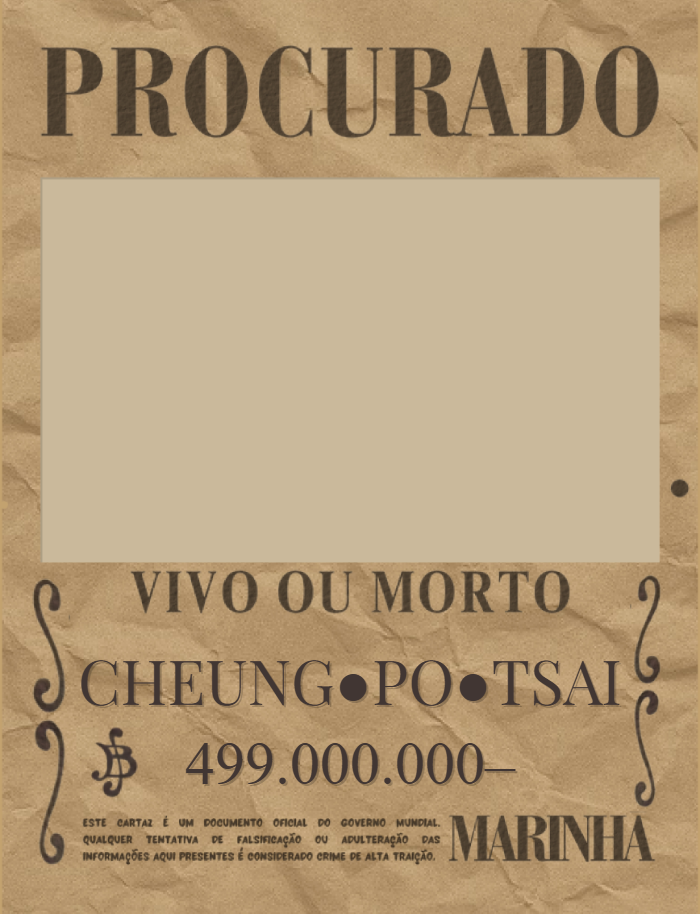
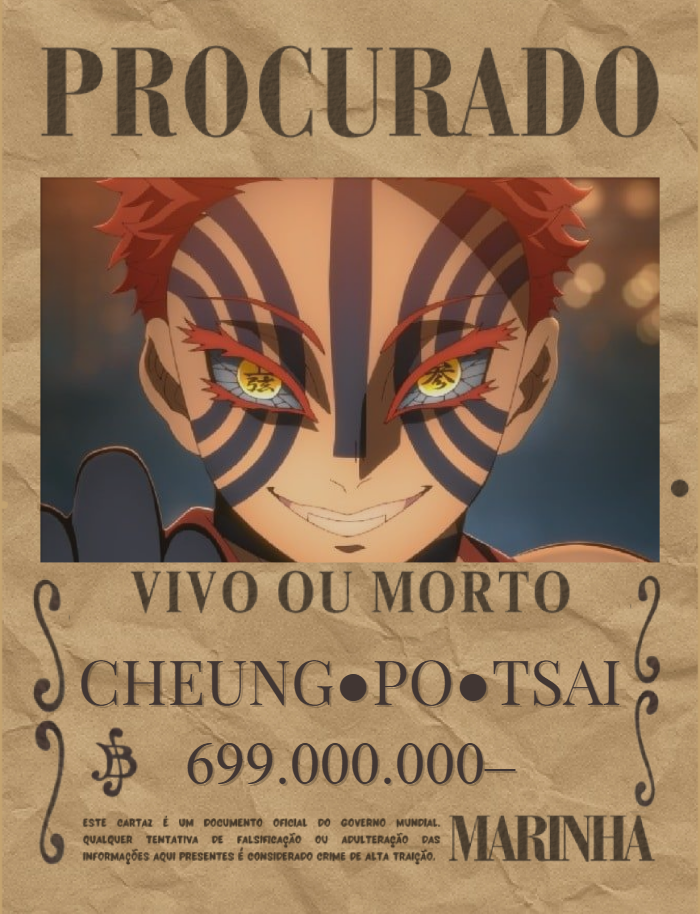
Site

diff --git a/aparencias.html b/aparencias.html
@@ -222,6 +222,15 @@
                     </div>
                     
                     <div class="gallery-item">
+                        <img src="assets\imagens\Personagens\Cheung Po Tsai.png" alt="Cheung Po Tsai" class="gallery-img">
+                        <div class="gallery-info">
+                            <div class="gallery-title">Cheung Po Tsai</div>
+                            <div class="gallery-subtitle"><a href="https://myanimelist.net/character/174147/Akaza" target="_blank">Akaza</a></div>
+                            <div class="gallery-id">NPC</div>
+                        </div>
+                    </div>
+                    
+                    <div class="gallery-item">
                         <img src="assets\imagens\Personagens\Chinjao Lucius.png" alt="Chinjao Lucius" class="gallery-img">
                         <div class="gallery-info">
                             <div class="gallery-title">Chinjao Lucius</div>
